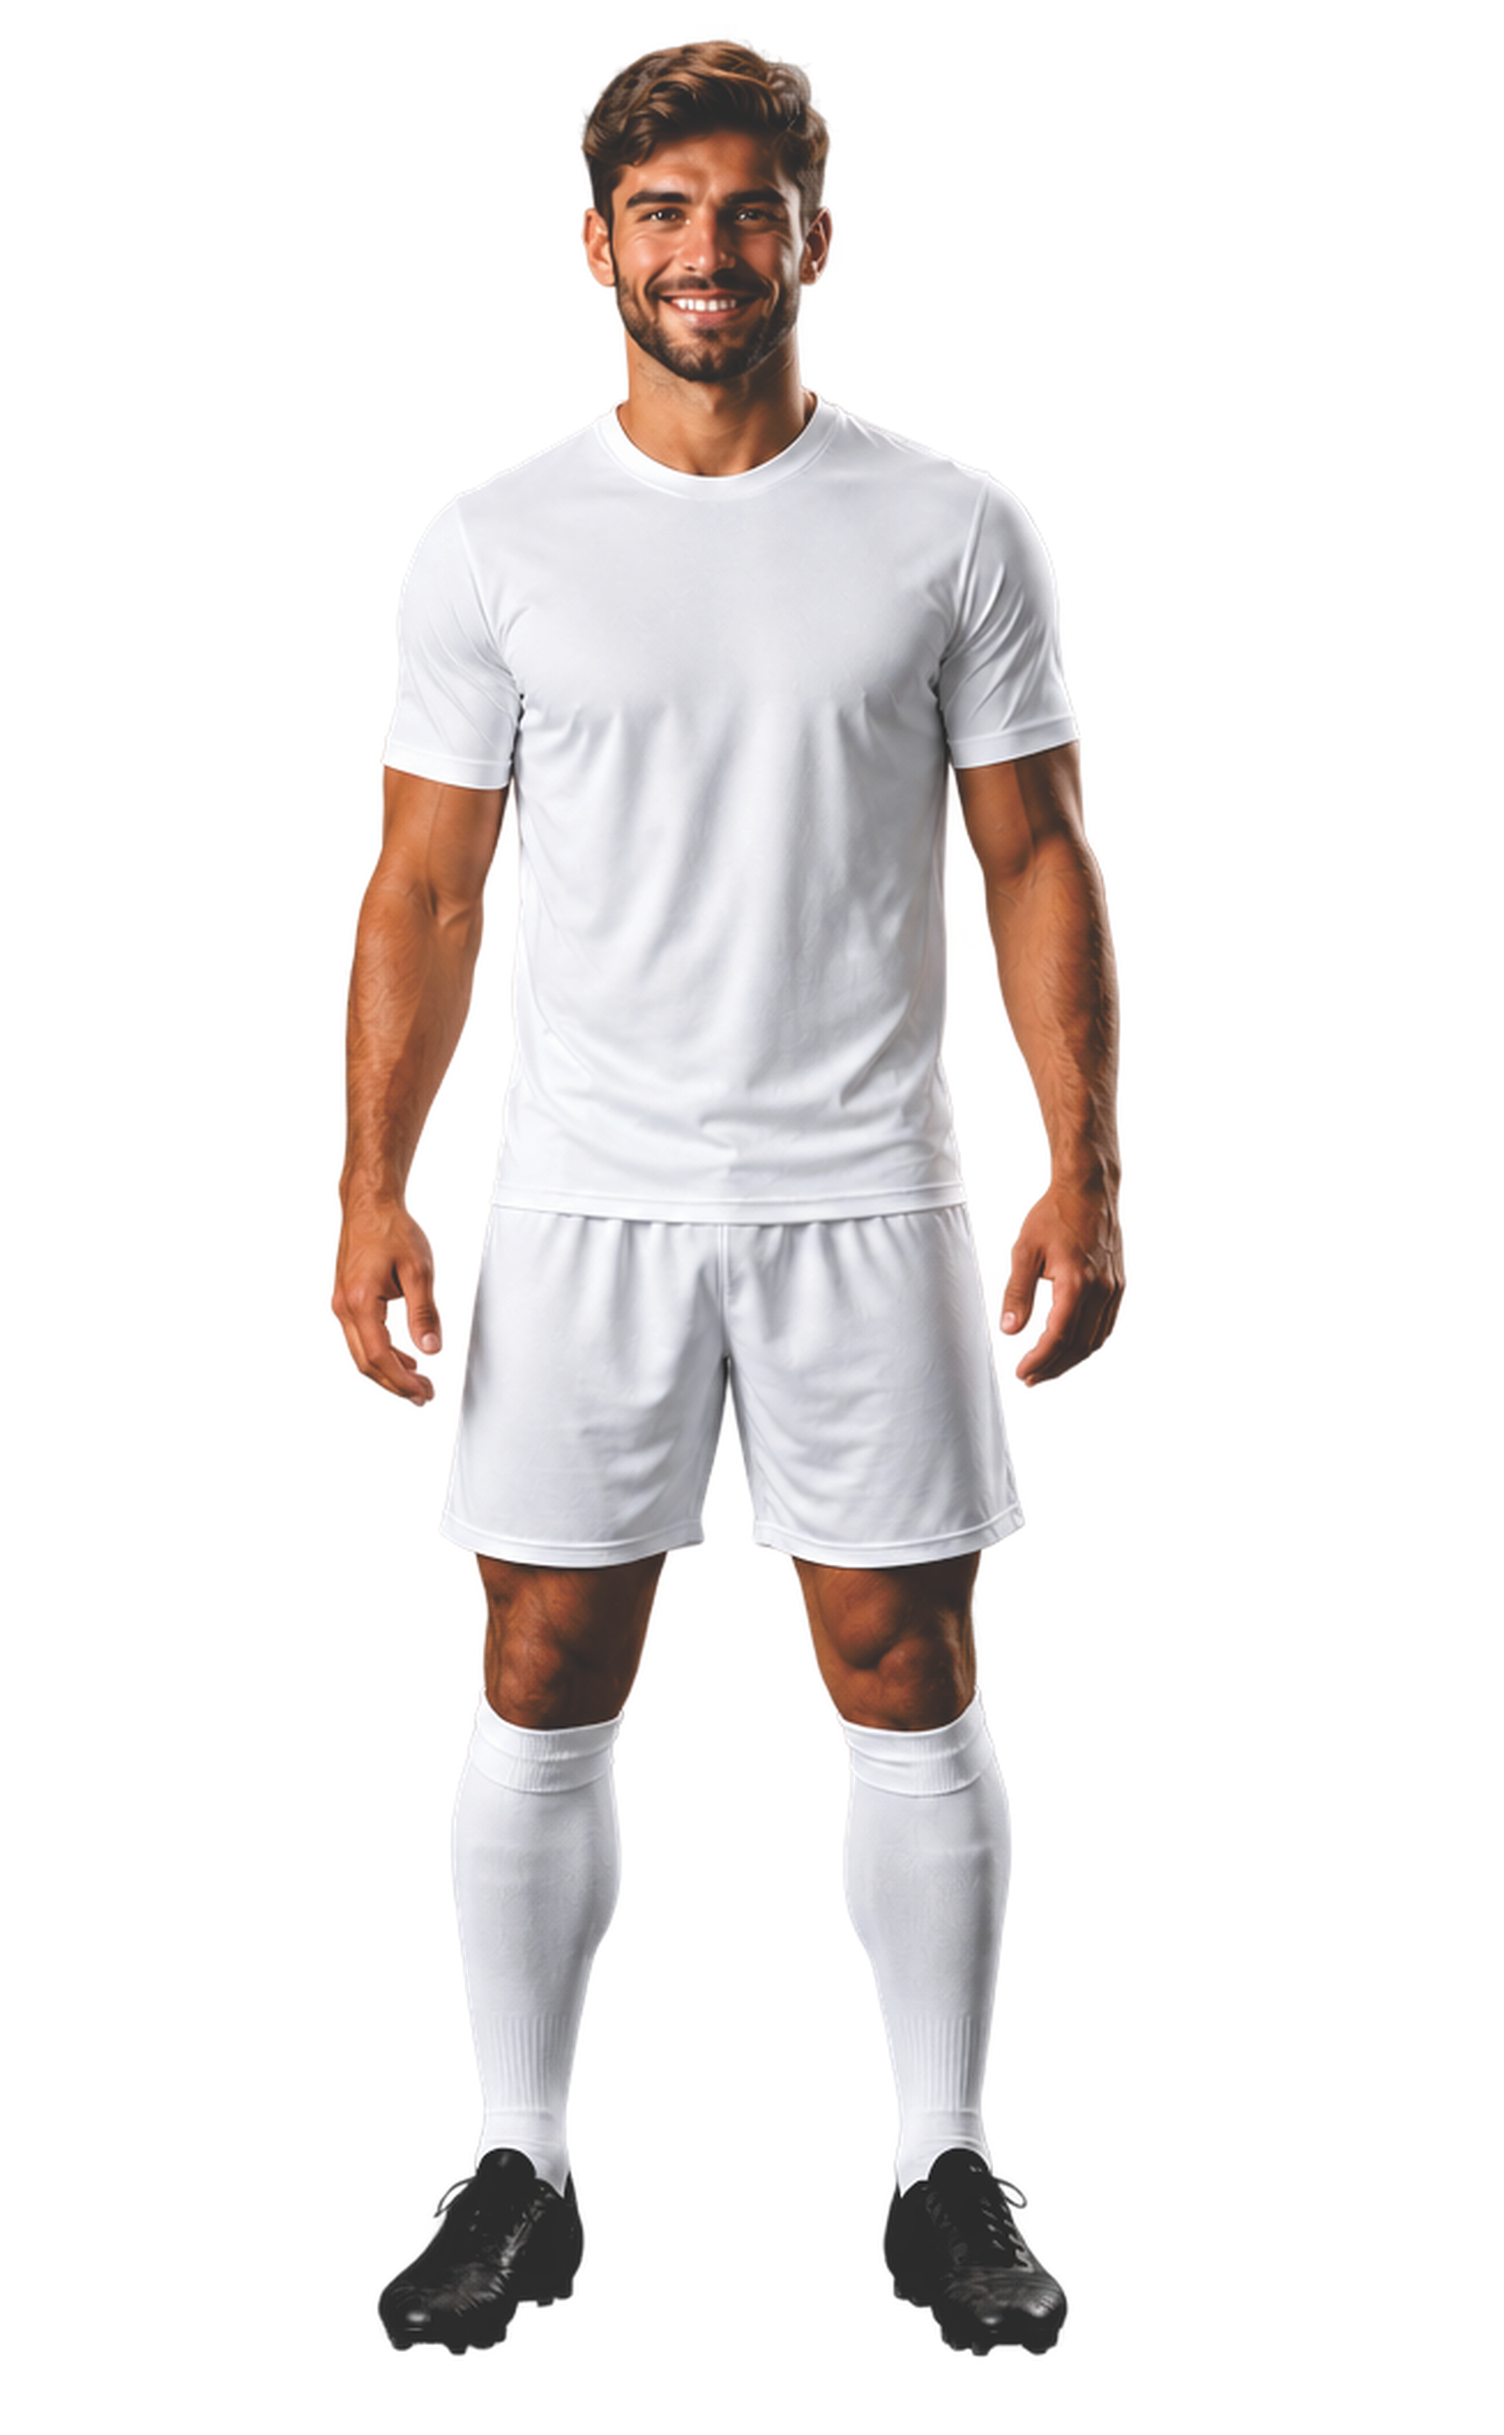
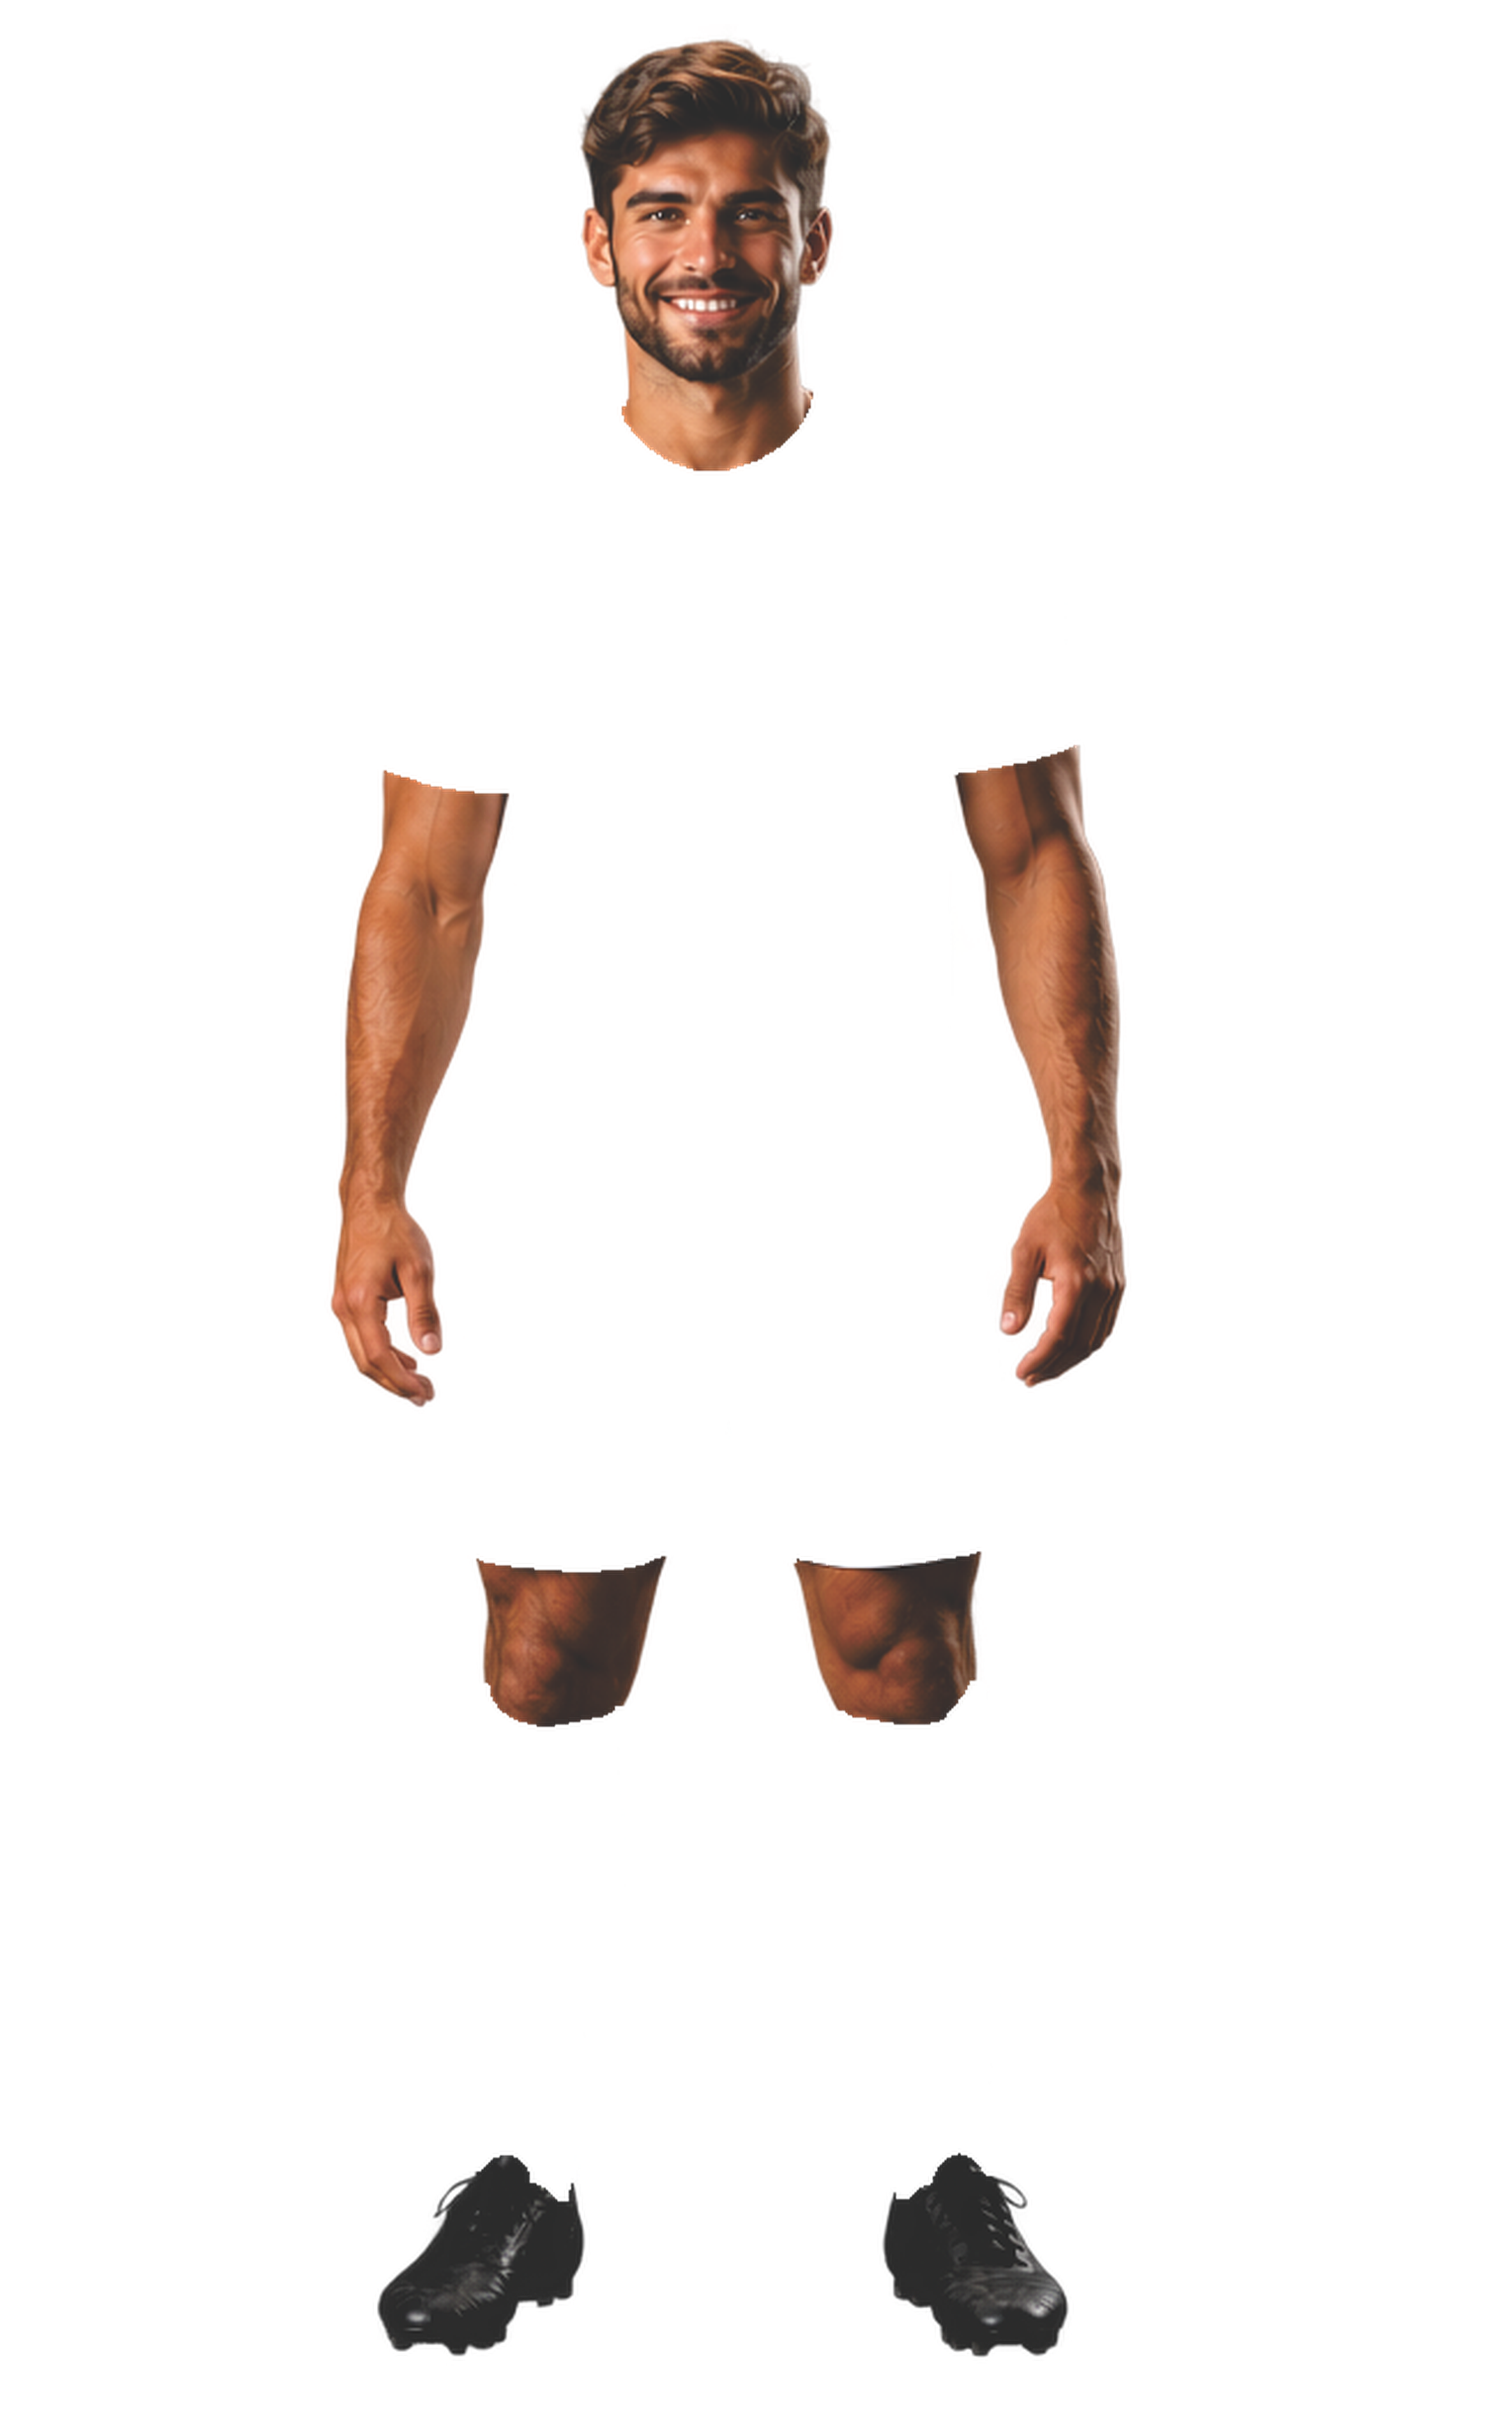
Fora as linhas brancas nas bordas das peças
O fundo do visualizador era o avatar VESTIDO — de kit branco. As peças
recoloridas assentam por cima, mas a escala do encaixe tem desvio residual
(~0,5%, o passo da procura), e a borda branca do kit dele espreitava 1–3
px à volta da camisa, do calção e do meião — gritante com cores escuras.

O fundo passa a ser o avatar SEM o kit: onde a máscara dos buracos diz que
há tecido, o alfa vai a zero, dilatado 2 px para levar também o rebordo
anti-serrilhado branco. Um desencaixe passa a mostrar o fundo da página,
que nunca grita como o branco. Verificado com navy sobre o fundo escuro:
bordas limpas na frente e no verso.

diff --git a/scripts/montar-dino2.py b/scripts/montar-dino2.py
@@ -160,10 +160,6 @@ def montar(lado):
     print(f'--- {lado} (vestido {vestido.size}, base×{escala_base:.3f}, '
           f'tela×{esc:.4f}) ---')
 
-    # fundo: o avatar já vestido, como no mockup anterior
-    tela, *_ = para_tela(vestido, (0, 0))
-    tela.save(f'{SAIDA}/jogador-{lado}.png')
-
     # buracos = transparente DENTRO do corpo do vestido (fora, transparente
     # é só fundo). A base sobe para a escala do vestido primeiro.
     base_grande = base.resize(
@@ -174,6 +170,19 @@ def montar(lado):
     bg = np.array(base_grande.getchannel('A'))
     alfa_base[:bg.shape[0], :bg.shape[1]] = bg
     buracos = (corpo & (alfa_base < 60)).astype(np.float32)
+
+    # Fundo: o avatar vestido SEM o kit. O kit dele é branco e a escala do
+    # encaixe das peças tem desvio residual (~0,5%), por isso a borda branca
+    # espreitava 1–3 px à volta de camisa, calção e meião. Onde a base diz
+    # que há tecido (buracos), o fundo fica transparente — dilatado 2 px
+    # para levar também o rebordo anti-serrilhado branco. Um desencaixe
+    # passa a mostrar o FUNDO DA PÁGINA, que nunca grita como o branco.
+    kit = cv2.dilate(buracos.astype(np.uint8),
+                     np.ones((5, 5), np.uint8)).astype(bool)
+    sem_kit = np.array(vestido)
+    sem_kit[kit, 3] = 0
+    tela, *_ = para_tela(Image.fromarray(sem_kit), (0, 0))
+    tela.save(f'{SAIDA}/jogador-{lado}.png')
 
     caixa_meiao = None
     pecas_nativas = {z: Image.open(f'{D}/peças que faltou/PEÇAS WEBP/{n}.webp').convert('RGBA')
